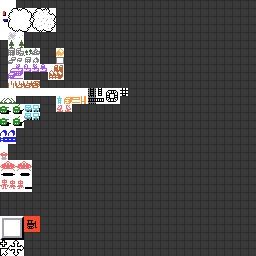
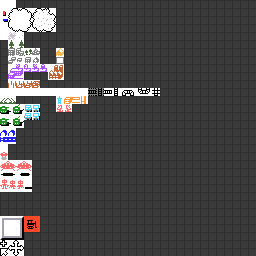
dfjd

Changed region(s): [[0.3438, 0.3438, 0.625, 0.4062]]

diff --git a/LD50/Tile.cpp b/LD50/Tile.cpp
@@ -104,6 +104,16 @@ void TileDraw(int dx, int dy, int tx, int ty, Tile* _tile) {
 		break;
 
 
+		case TT_RAIL_STATION_H:
+			Graphics::DrawSpr(TEX_CHARS, { dx, dy, 8, 8 }, { 88, 88, 8, 8 });
+		break;
+
+		case TT_RAIL_TRACK:
+			Graphics::DrawSpr(TEX_CHARS, { dx, dy, 8, 8 }, { 104 + _tile->timer*8, 88, 8, 8 });
+		break;
+
+
+
 	}
 }
 
@@ -219,6 +229,24 @@ void TileOnBuilt(int x, int y, Tile* _tile) {
 			LEVEL.playerHq.origin_y = y;
 			LEVEL.playerHq.flags |= CF_ACTIVE;
 		break;
+
+		case TT_RAIL_TRACK: {
+
+			Tile* _tile_l = LEVEL.GetTile(x - 1, y);
+			Tile* _tile_r = LEVEL.GetTile(x - 1, y);
+			Tile* _tile_u = LEVEL.GetTile(x - 1, y);
+			Tile* _tile_d = LEVEL.GetTile(x - 1, y);
+
+			//check for above tile to connect to
+			if (_tile_u->type = TT_RAIL_TRACK) {
+				if (_tile_u->timer == TRS_H) {
+					_tile->timer = TRS_H;
+				}
+			}
+
+
+		break; }
+
 	}
 }
 

diff --git a/LD50/TileBaseInfo.h b/LD50/TileBaseInfo.h
@@ -193,6 +193,31 @@ const TileInfo arrTileInfo[] = {
 		/* FLAGS */			TIF_HUMAN,
 		/* BUILDCOST */		0,
 	},
+	{
+		/* NAME */			"Rail Station", // H
+		/* BASE_HP */		6,
+		/* BUILD_SPR */		{88, 88, 8, 8},
+		/* BUILD_TIME */	256,
+		/* FLAGS */			TIF_HUMAN | TIF_RAIL,
+		/* BUILDCOST */		0,
+	},
+	{
+		/* NAME */			"Rail Station", // V
+		/* BASE_HP */		6,
+		/* BUILD_SPR */		{88, 88, 8, 8},
+		/* BUILD_TIME */	256,
+		/* FLAGS */			TIF_HUMAN | TIF_RAIL,
+		/* BUILDCOST */		0,
+	},
+	{
+		/* NAME */			"Rail", // H
+		/* BASE_HP */		3,
+		/* BUILD_SPR */		{104, 88, 8, 8},
+		/* BUILD_TIME */	256,
+		/* FLAGS */			TIF_HUMAN | TIF_RAIL,
+		/* BUILDCOST */		0,
+	},
+
 
 };
 

diff --git a/LD50/Tile.h b/LD50/Tile.h
@@ -36,9 +36,15 @@ enum TileType {
 
 	TT_RAIL_STATION_H,
 	TT_RAIL_STATION_V,
+
 	TT_RAIL_TRACK,
-
-
+	//TT_RAIL_TRACK_H,
+	//TT_RAIL_TRACK_V,
+	//TT_RAIL_TRACK_LU,
+	//TT_RAIL_TRACK_RU,
+	//TT_RAIL_TRACK_LD,
+	//TT_RAIL_TRACK_RD,
+	//TT_RAIL_TRACK_CROSS,
 
 };
 
@@ -62,7 +68,20 @@ enum TileInfoFlags {
 	TIF_ALIEN = 0x02,
 	TIF_HUMAN = 0x04,
 	TIF_WALKABLE = 0x08,
+	TIF_RAIL = 0x10,
 };
+
+//uses timer
+enum TileRailStates {
+	TRS_H,
+	TRS_V,
+	TRS_RD,
+	TRS_LD,
+	TRS_RU,
+	TRS_LU,
+	TRS_CROSS,
+};
+
 
 struct TileInfo {
 	std::string name = "NAME ME";

diff --git a/LD50/Game.h b/LD50/Game.h
@@ -50,16 +50,15 @@ public:
 	short borderBottomSize = 16;
 
 
-#define BUILD_OPTIONS 9
+#define BUILD_OPTIONS 8
 	char arrBuildOptions[BUILD_OPTIONS] = {
 		TT_AA_GUN,
 		TT_AIRFIELD_TL,
 		TT_FACTORY_TL,
 		TT_WALL,
-		TT_WALL,
-		TT_WALL,
-		TT_WALL,
-		TT_WALL,
+		TT_CITYSTARTER,
+		TT_RAIL_STATION_H,
+		TT_RAIL_TRACK,
 		TT_NONE,
 	};
 
